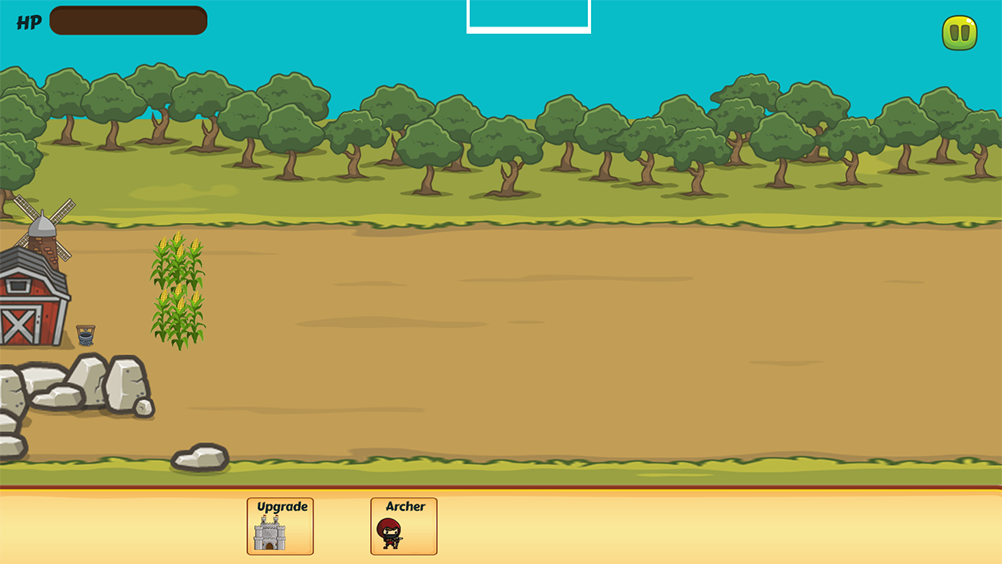
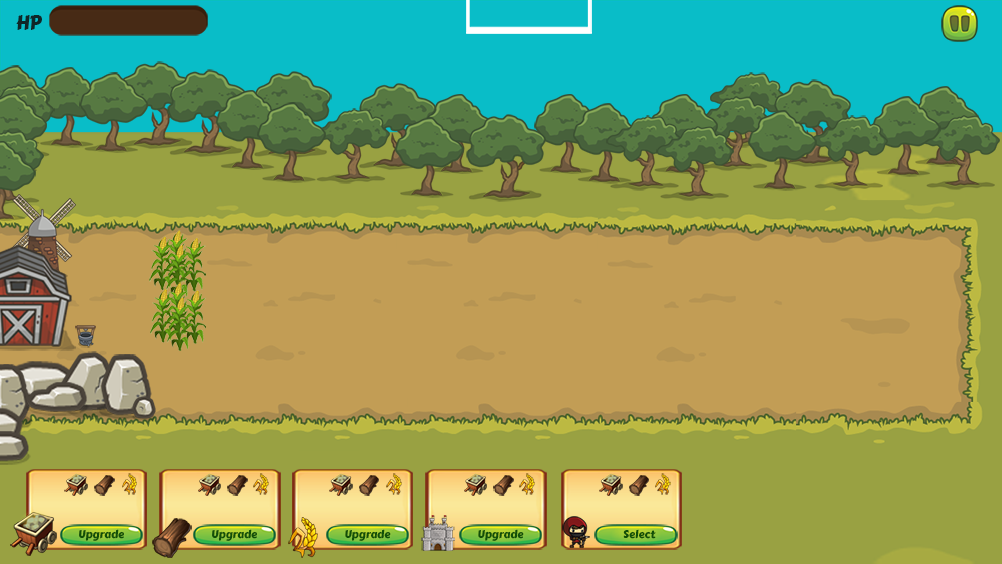
full resource system implemented

diff --git a/js/resources.js b/js/resources.js
@@ -2,18 +2,109 @@ class Resources {
   constructor(game) {
     this.game = game;
     this.context = game.context;
-    this.wood = 33;
-    this.stone = 30;
-    this.food = 41;
-    this.generateResources();
+    this.wood = 10;
+    this.stone = 10;
+    this.food = 10;
+    this.woodProductionRate = 1;
+    this.stoneProductionRate = 1;
+    this.foodProductionRate = 2;
+    this.foodSiteLevel = 1;
+    this.woodSiteLevel = 1;
+    this.stoneSiteLevel = 1;
+    this.hasFoodToGather = false;
+    this.hasWoodToGather = false;
+    this.hasStoneToGather = false;
+    this.imgFoodToGather = new Image();
+    this.imgWoodToGather = new Image();
+    this.imgStoneToGather = new Image();
+    this.imgFoodToGather.src = "./images/wheat_gather.png";
+    this.imgWoodToGather.src = "./images/wood_gather.png";
+    this.imgStoneToGather.src = "./images/mine_gather.png";
+    this.gatherFood_btn = new Button(this.game, 160, 240, 80, 80);
+    this.gatherWood_btn = new Button(this.game, 70, 170, 70, 70);
+    this.gatherStone_btn = new Button(this.game, 170, 390, 70, 70);
+
+    this.upgradeStone_btn = new Button(this.game, 60, 525, 80, 20);
+    this.upgradeWood_btn = new Button(this.game, 195, 525, 80, 20);
+    this.upgradeFood_btn = new Button(this.game, 327, 525, 80, 20);
+
+    this.upgradeFoodCost = { stone: 1, wood: 3, food: 4 };
+    this.upgradeWoodCost = { stone: 3, wood: 1, food: 6 };
+    this.upgradeStoneCost = { stone: 2, wood: 3, food: 6 };
+
+    this.foodTime = 0;
+    this.woodTime = 0;
+    this.stoneTime = 0;
+
+    this.farmerImg = new Image();
+    this.farmerImg.src = "./images/farmer.png";
+    this.minerImg = new Image();
+    this.minerImg.src = "./images/cutter.png";
+    this.cutterImg = new Image();
+    this.cutterImg.src = "./images/cutter.png";
+
+    this.gatherResourcesClick();
   }
 
   draw() {
+    this.drawOwenedResources();
+    this.drawSettlersAndPickup();
+
+    this.upgradeFood_btn.draw();
+    this.upgradeStone_btn.draw();
+    this.upgradeWood_btn.draw();
+
+    this.drawText();
+  }
+
+  drawOwenedResources() {
     this.context.font = "bold 20px Times New Roman";
     this.context.fillStyle = "White";
     this.context.fillText(`${this.stone}`, 260, 25);
     this.context.fillText(`${this.wood}`, 340, 25);
     this.context.fillText(`${this.food}`, 415, 25);
+  }
+
+  drawText() {
+    this.context.font = "bold 14px Times New Roman";
+    this.context.fillStyle = "black";
+    this.context.fillText(`${this.upgradeStoneCost.stone}`, 70, 515);
+    this.context.fillText(`${this.upgradeStoneCost.wood}`, 97, 515);
+    this.context.fillText(`${this.upgradeStoneCost.food}`, 124, 515);
+
+    this.context.fillText(`${this.upgradeWoodCost.stone}`, 202, 515);
+    this.context.fillText(`${this.upgradeWoodCost.wood}`, 229, 515);
+    this.context.fillText(`${this.upgradeWoodCost.food}`, 256, 515);
+
+    this.context.fillText(`${this.upgradeFoodCost.stone}`, 334, 515);
+    this.context.fillText(`${this.upgradeFoodCost.wood}`, 361, 515);
+    this.context.fillText(`${this.upgradeFoodCost.food}`, 388, 515);
+
+    this.context.fillText(`${this.game.castle.upgradeCost.stone}`, 469, 515);
+    this.context.fillText(`${this.game.castle.upgradeCost.wood}`, 496, 515);
+    this.context.fillText(`0`, 523, 515);
+
+    this.context.fillText(`0`, 605, 515);
+    this.context.fillText(`2`, 632, 515);
+    this.context.fillText(`6`, 659, 515);
+  }
+
+  drawSettlersAndPickup() {
+    if (this.hasFoodToGather) this.context.drawImage(this.imgFoodToGather, 160, 240, 80, 80);
+    if (this.hasWoodToGather) this.context.drawImage(this.imgWoodToGather, 70, 170, 70, 70);
+    if (this.hasStoneToGather) this.context.drawImage(this.imgStoneToGather, 170, 390, 70, 70);
+
+    this.context.drawImage(this.farmerImg, 100, 220, 70, 70);
+    if (this.foodSiteLevel > 1) this.context.drawImage(this.farmerImg, 100, 260, 70, 70);
+    if (this.foodSiteLevel > 2) this.context.drawImage(this.farmerImg, 100, 300, 70, 70);
+
+    this.context.drawImage(this.cutterImg, 30, 120, 70, 70);
+    if (this.woodSiteLevel > 1) this.context.drawImage(this.cutterImg, 80, 120, 70, 70);
+    if (this.woodSiteLevel > 2) this.context.drawImage(this.cutterImg, 130, 120, 70, 70);
+
+    this.context.drawImage(this.minerImg, 110, 380, 70, 70);
+    if (this.stoneSiteLevel > 1) this.context.drawImage(this.minerImg, 60, 380, 70, 70);
+    if (this.stoneSiteLevel > 2) this.context.drawImage(this.minerImg, 10, 380, 70, 70);
   }
 
   addStone(qntd) {
@@ -30,21 +121,124 @@ class Resources {
     this.stone -= qntd;
   }
   removeFood(qntd) {
-    this.Food -= qntd;
+    this.food -= qntd;
   }
   removeWood(qntd) {
-    this.Wood -= qntd;
+    this.wood -= qntd;
   }
 
   generateResources() {
-    if (this.game.state === "playing") {
-      this.addFood(4);
-      this.addStone(2);
-      this.addWood(3);
-    }
+    this.generateFood();
+    this.generateWood();
+    this.generateStone();
+  }
 
-    setTimeout(() => {
-      this.generateResources();
-    }, 3000);
+  generateFood() {
+    if (!this.hasFoodToGather) {
+      this.foodTime += 1 / 120;
+
+      if (this.foodTime >= 6) {
+        this.foodTime = 0;
+        this.hasFoodToGather = true;
+      }
+    }
+  }
+
+  generateWood() {
+    if (!this.hasWoodToGather) {
+      this.woodTime += 1 / 120;
+
+      if (this.woodTime >= 6) {
+        this.woodTime = 0;
+        this.hasWoodToGather = true;
+      }
+    }
+  }
+
+  generateStone() {
+    if (!this.hasStoneToGather) {
+      this.stoneTime += 1 / 120;
+
+      if (this.stoneTime >= 7) {
+        this.stoneTime = 0;
+        this.hasStoneToGather = true;
+      }
+    }
+  }
+
+  gatherResourcesClick() {
+    window.addEventListener("click", (event) => {
+      if (this.game.isButtonPressed(event, this.gatherFood_btn) && this.hasFoodToGather === true) {
+        this.addFood(this.foodProductionRate);
+        this.hasFoodToGather = false;
+      }
+
+      if (this.game.isButtonPressed(event, this.gatherWood_btn) && this.hasWoodToGather === true) {
+        this.addWood(this.woodProductionRate);
+        this.hasWoodToGather = false;
+      }
+
+      if (this.game.isButtonPressed(event, this.gatherStone_btn) && this.hasStoneToGather === true) {
+        this.addStone(this.stoneProductionRate);
+        this.hasStoneToGather = false;
+      }
+
+      if (
+        this.game.isButtonPressed(event, this.upgradeFood_btn) &&
+        this.food >= this.upgradeFoodCost.food &&
+        this.wood >= this.upgradeFoodCost.wood &&
+        this.stone >= this.upgradeFoodCost.stone
+      ) {
+        this.removeFood(this.upgradeFoodCost.food);
+        this.removeStone(this.upgradeFoodCost.stone);
+        this.removeWood(this.upgradeFoodCost.wood);
+        this.foodProductionRate += this.foodSiteLevel;
+        this.foodSiteLevel++;
+
+        this.upgradeFoodCost = {
+          stone: 3,
+          wood: 5,
+          food: 8,
+        };
+      }
+
+      if (
+        this.game.isButtonPressed(event, this.upgradeWood_btn) &&
+        this.food >= this.upgradeWoodCost.food &&
+        this.wood >= this.upgradeWoodCost.wood &&
+        this.stone >= this.upgradeWoodCost.stone
+      ) {
+        this.removeFood(this.upgradeWoodCost.food);
+        this.removeStone(this.upgradeWoodCost.stone);
+        this.removeWood(this.upgradeWoodCost.wood);
+        this.woodProductionRate += this.woodSiteLevel;
+        this.woodSiteLevel++;
+
+        this.upgradeWoodCost = {
+          stone: 5,
+          wood: 5,
+          food: 7,
+        };
+      }
+
+      if (
+        this.game.isButtonPressed(event, this.upgradeStone_btn) &&
+        this.food >= this.upgradeStoneCost.food &&
+        this.wood >= this.upgradeStoneCost.wood &&
+        this.stone >= this.upgradeStoneCost.stone
+      ) {
+        this.removeFood(this.upgradeStoneCost.food);
+        this.removeStone(this.upgradeStoneCost.stone);
+        this.removeWood(this.upgradeStoneCost.wood);
+        this.stoneProductionRate += this.stoneSiteLevel;
+        this.stoneSiteLevel++;
+
+        this.upgradeStoneCost = {
+          stone: 7,
+          wood: 7,
+          food: 8,
+        };
+      }
+    });
   }
 }

diff --git a/js/game.js b/js/game.js
@@ -13,10 +13,10 @@ class Game {
     //this.stone = 50; //******* */
     //this.wood = 50; //******* */
     this.state = "pre game"; // pre game ,playing , game over, paused
-    this.pause_btn = new Button(this, 940, 15, 40, 40);
-    this.upgradeCastle_btn = new Button(this, 248, 490, 65, 65);
-    this.addArcher_btn = new Button(this, 370, 490, 65, 65);
-    this.play_btn = new Button(this, 400, 280, 220, 70);
+    this.pause_btn = new Button(this, 940, 5, 40, 40);
+    this.upgradeCastle_btn = new Button(this, 460, 525, 80, 20);
+    this.addArcher_btn = new Button(this, 595, 525, 80, 20);
+    this.play_btn = new Button(this, 400, 280, 220, 80);
 
     this.createWave();
     this.bindButtons();
@@ -30,19 +30,19 @@ class Game {
 
     for (let i = 0; i < 3; i++) {
       const rnd = 40 + Math.random() * 10;
-      this.enemies.push(new Greek(this, 1200 + i * rnd, 190 + Math.random() * 150));
-      this.enemies.push(new Knight(this, 1400 + i * rnd * 3, 190 + Math.random() * 150));
+      this.enemies.push(new Greek(this, 1300 + i * rnd, 190 + Math.random() * 150));
+      this.enemies.push(new Knight(this, 1500 + i * rnd * 3, 190 + Math.random() * 150));
     }
 
     for (let i = 0; i < 5; i++) {
       const rnd = 40 + Math.random() * 10;
-      this.enemies.push(new Knight(this, 2100 + i * rnd * 3, 190 + Math.random() * 150));
+      this.enemies.push(new Knight(this, 2300 + i * rnd * 3, 190 + Math.random() * 150));
     }
 
     for (let i = 0; i < 3; i++) {
       const rnd = 40 + Math.random() * 10;
-      this.enemies.push(new Greek(this, 2100 + i * rnd, 190 + Math.random() * 150));
-      this.enemies.push(new Knight(this, 2100 + i * rnd * 3, 190 + Math.random() * 150));
+      this.enemies.push(new Greek(this, 2300 + i * rnd, 190 + Math.random() * 150));
+      this.enemies.push(new Knight(this, 2300 + i * rnd * 3, 190 + Math.random() * 150));
     }
   }
 
@@ -99,6 +99,7 @@ class Game {
 
   playing() {
     this.drawGame();
+    this.resource.generateResources();
 
     for (let unit of this.heros) {
       unit.update();
@@ -142,7 +143,7 @@ class Game {
       if (this.isButtonPressed(event, this.upgradeCastle_btn)) this.castle.upgrade();
 
       if (this.isButtonPressed(event, this.addArcher_btn)) {
-        if (this.resource.food >= 25 && this.resource.wood >= 10) {
+        if (this.resource.food >= 6 && this.resource.wood >= 2) {
           ///////**** */
 
           this.csm.selected = "Archer";

diff --git a/js/background.js b/js/background.js
@@ -6,12 +6,7 @@ class Background {
     this.img.src = "./images/background_03.png";
     this.preGameImg = new Image();
     this.preGameImg.src = "./images/pre_game_bg.png";
-    this.farmerImg = new Image();
-    this.farmerImg.src = "./images/farmer.png";
-    this.minerImg = new Image();
-    this.minerImg.src = "./images/cutter.png";
-    this.cutterImg = new Image();
-    this.cutterImg.src = "./images/cutter.png";
+
     this.woodImg = new Image();
     this.stoneImg = new Image();
     this.foodImg = new Image();
@@ -25,9 +20,7 @@ class Background {
 
   draw() {
     this.context.drawImage(this.img, 0, 0);
-    this.context.drawImage(this.farmerImg, 100, 230, 70, 70);
-    this.context.drawImage(this.cutterImg, 30, 120, 70, 70);
-    this.context.drawImage(this.minerImg, 10, 380, 70, 70);
+
     this.context.drawImage(this.stoneImg, 220, 0, 40, 40);
     this.context.drawImage(this.woodImg, 300, 0, 40, 40);
     this.context.drawImage(this.foodImg, 380, 0, 40, 40);

diff --git a/js/castle.js b/js/castle.js
@@ -5,7 +5,7 @@ class Castle {
     this.level = 0;
     this.maxHealth = 100;
     this.health = 100;
-    this.upgradeCost = { stone: 35, wood: 20 };
+    this.upgradeCost = { stone: 8, wood: 5 };
     this.img1 = new Image();
     this.img1.src = "./images/castle/Castle_00.png";
     this.img2 = new Image();
@@ -45,10 +45,10 @@ class Castle {
       this.maxHealth += 50;
       this.health += 50;
       this.game.csm.slots[this.level + 2].isEmpty = true;
-      this.game.resource.stone -= this.upgradeCost.stone; //******* */
+      this.game.resource.stone -= this.upgradeCost.stone; //******* */removeStone();
       this.game.resource.wood -= this.upgradeCost.wood; //******* */
-      this.upgradeCost.stone += 10;
-      this.upgradeCost.wood += 10;
+      this.upgradeCost.stone += this.level * this.level;
+      this.upgradeCost.wood += this.level * this.level;
     }
   }
 }

diff --git a/js/archer.js b/js/archer.js
@@ -6,12 +6,12 @@ class Archer extends Character {
     this.strength = 5;
     this.arrow = "";
     this.target = "";
-    this.cost = { food: 25, stone: 0, wood: 10 };
+    this.cost = { food: 6, stone: 0, wood: 2 };
 
     this.img = new Image();
     this.img.src = "./images/archer.png";
-    this.game.resource.food -= this.cost.food; //******* */
-    this.game.resource.wood -= this.cost.wood; //******* */
+    this.game.resource.food -= this.cost.food; //remove
+    this.game.resource.wood -= this.cost.wood;
     this.img.onload = () => {
       this.draw();
     };

diff --git a/js/arrow.js b/js/arrow.js
@@ -18,9 +18,9 @@ class Arrow extends Projetil {
 
   draw() {
     let aux2;
-    if (this.distance < 60) {
-      aux2 = 5;
-      this.x += 1.5;
+    if (this.distance < 40) {
+      aux2 = 4;
+      this.x += 1.2;
     } else if (this.distance < 120) {
       aux2 = 1;
       this.x += 2.5;

diff --git a/js/button.js b/js/button.js
@@ -11,7 +11,7 @@ class Button {
   draw() {
     this.context.save();
     //this.globalAlpha = 0;
-    this.context.fillStyle = "rgba(0,0,0,0)";
+    this.context.fillStyle = "rgba(111,111,111,0.5)";
     this.context.fillRect(this.x, this.y, this.w, this.h);
     this.context.restore();
   }
